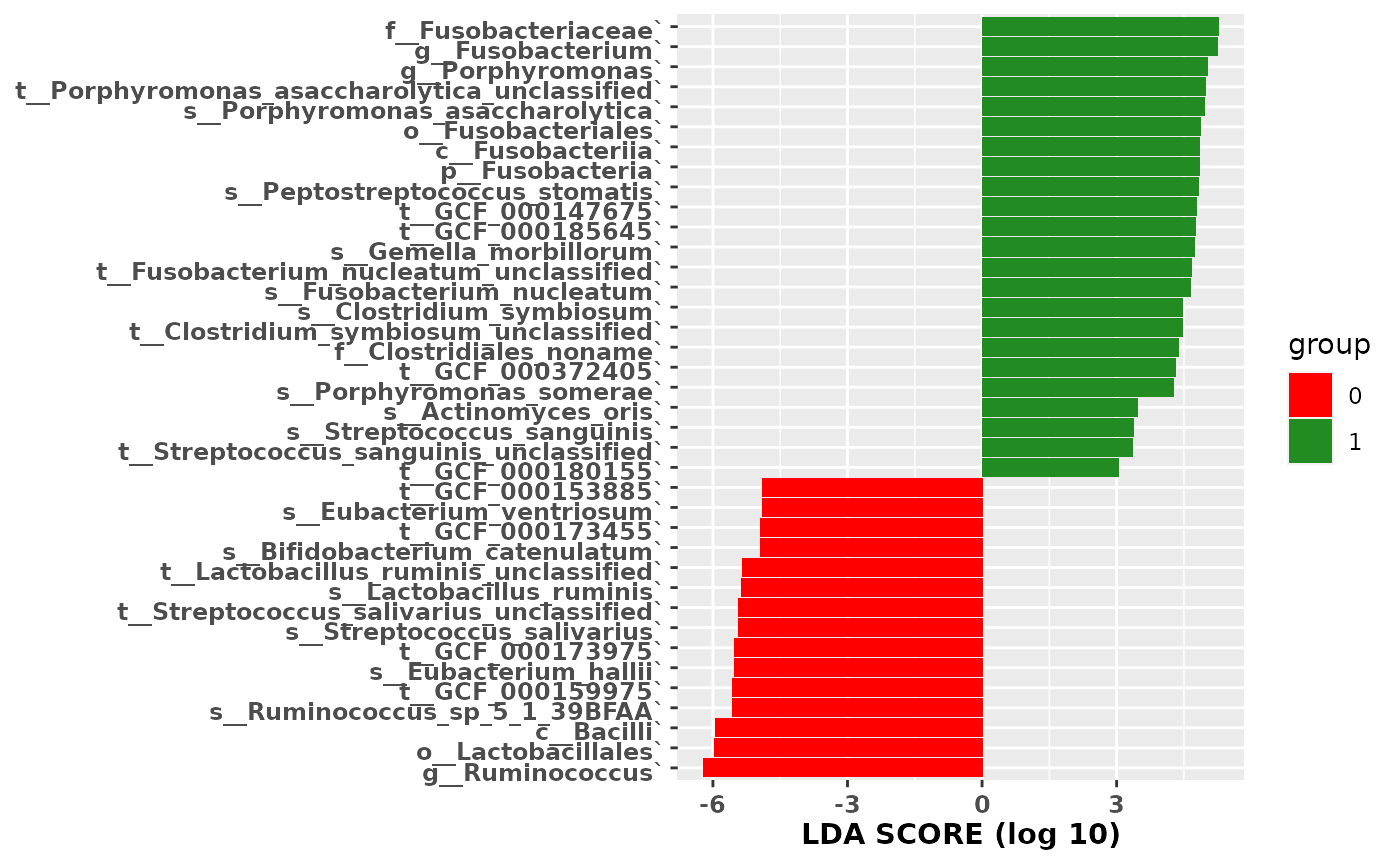
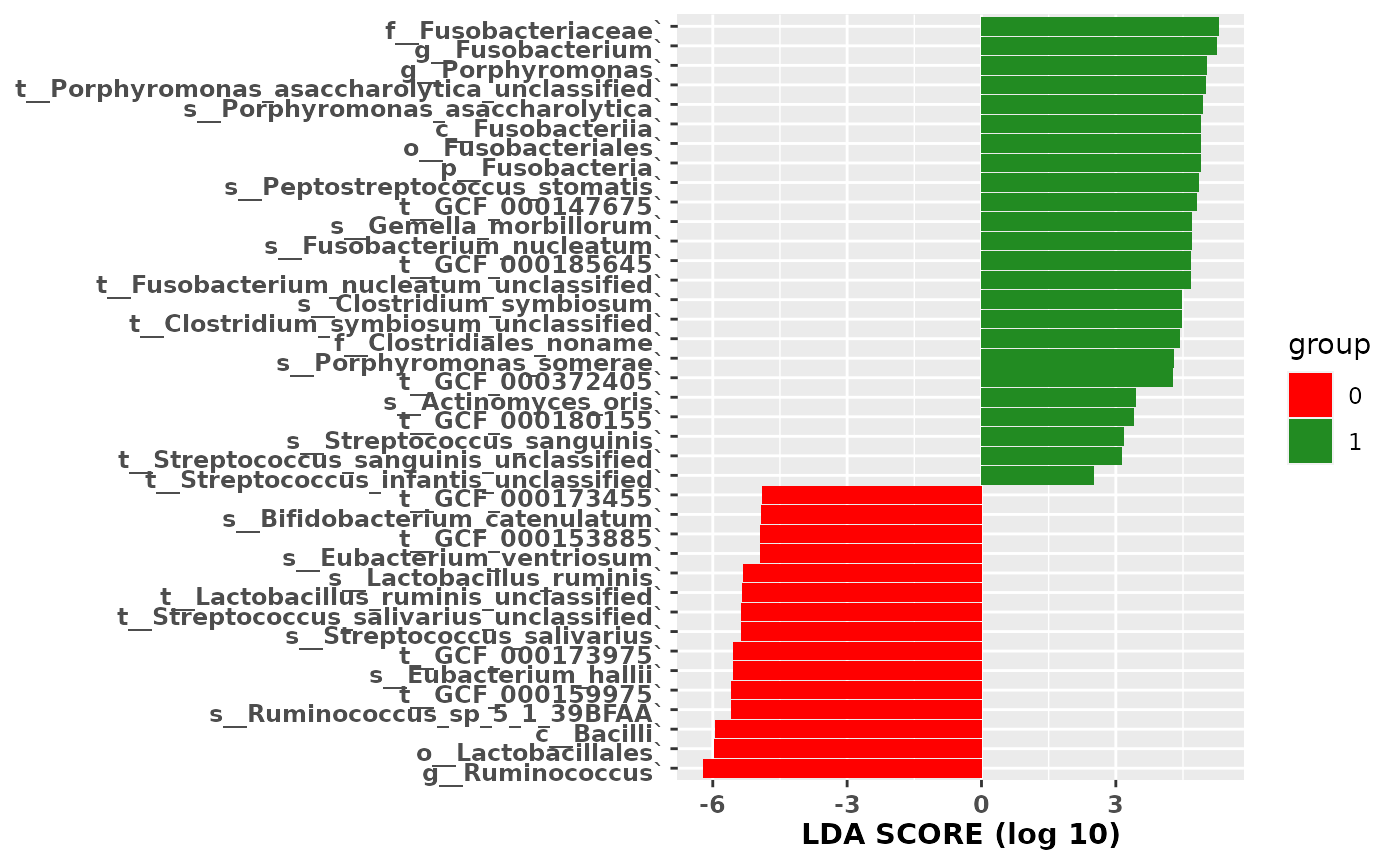
Deploying to gh-pages from  @ 4df78a859b18231f103ed96d76476f8ea290d71c 🚀

diff --git a/articles/lefser.html b/articles/lefser.html
@@ -37,7 +37,7 @@
       </button>
       <span class="navbar-brand">
         <a class="navbar-link" href="../index.html">lefser</a>
-        <span class="version label label-default" data-toggle="tooltip" data-placement="bottom" title="Released version">0.99.11</span>
+        <span class="version label label-default" data-toggle="tooltip" data-placement="bottom" title="Released version">0.99.12</span>
       </span>
     </div>
 
@@ -151,12 +151,12 @@
 ## 5 `k__Bacteria|p__Firmicutes|c__Clostridia|o__Clostridiales|f__Ruminococcaceae|g__Ruminococcus|s__Ruminococcus_sp_5_1_39BFAA|t__GCF_000159975`
 ## 6                            `k__Bacteria|p__Firmicutes|c__Clostridia|o__Clostridiales|f__Eubacteriaceae|g__Eubacterium|s__Eubacterium_hallii`
 ##      scores
-## 1 -6.209961
-## 2 -5.959418
-## 3 -5.946692
-## 4 -5.555393
-## 5 -5.555393
-## 6 -5.510357</code></pre>
+## 1 -6.207223
+## 2 -5.959759
+## 3 -5.948038
+## 4 -5.578802
+## 5 -5.578802
+## 6 -5.547657</code></pre>
 </div>
 <div id="visualizing-results-with-lefserplot" class="section level1">
 <h1 class="hasAnchor">
@@ -190,7 +190,7 @@
 ## [8] methods   base     
 ## 
 ## other attached packages:
-##  [1] lefser_0.99.11              SummarizedExperiment_1.19.9
+##  [1] lefser_0.99.12              SummarizedExperiment_1.19.9
 ##  [3] Biobase_2.49.1              GenomicRanges_1.41.6       
 ##  [5] GenomeInfoDb_1.25.11        IRanges_2.23.10            
 ##  [7] S4Vectors_0.27.13           BiocGenerics_0.35.4        

diff --git a/reference/lefserPlot.html b/reference/lefserPlot.html
@@ -83,7 +83,7 @@ and whether they are more abundant in '0' or '1' sample group." />
       </button>
       <span class="navbar-brand">
         <a class="navbar-link" href="../index.html">lefser</a>
-        <span class="version label label-default" data-toggle="tooltip" data-placement="bottom" title="Released version">0.99.11</span>
+        <span class="version label label-default" data-toggle="tooltip" data-placement="bottom" title="Released version">0.99.12</span>
       </span>
     </div>
 

diff --git a/reference/zeller14.html b/reference/zeller14.html
@@ -84,7 +84,7 @@ directory &quot;data-raw&quot;." />
       </button>
       <span class="navbar-brand">
         <a class="navbar-link" href="../index.html">lefser</a>
-        <span class="version label label-default" data-toggle="tooltip" data-placement="bottom" title="Released version">0.99.11</span>
+        <span class="version label label-default" data-toggle="tooltip" data-placement="bottom" title="Released version">0.99.12</span>
       </span>
     </div>
 

diff --git a/reference/lefser.html b/reference/lefser.html
@@ -86,7 +86,7 @@ are identified as biomarkers." />
       </button>
       <span class="navbar-brand">
         <a class="navbar-link" href="../index.html">lefser</a>
-        <span class="version label label-default" data-toggle="tooltip" data-placement="bottom" title="Released version">0.99.11</span>
+        <span class="version label label-default" data-toggle="tooltip" data-placement="bottom" title="Released version">0.99.12</span>
       </span>
     </div>
 

diff --git a/404.html b/404.html
@@ -81,7 +81,7 @@
       </button>
       <span class="navbar-brand">
         <a class="navbar-link" href="https://waldronlab.io/lefser//index.html">lefser</a>
-        <span class="version label label-default" data-toggle="tooltip" data-placement="bottom" title="Released version">0.99.11</span>
+        <span class="version label label-default" data-toggle="tooltip" data-placement="bottom" title="Released version">0.99.12</span>
       </span>
     </div>
 

diff --git a/articles/index.html b/articles/index.html
@@ -81,7 +81,7 @@
       </button>
       <span class="navbar-brand">
         <a class="navbar-link" href="../index.html">lefser</a>
-        <span class="version label label-default" data-toggle="tooltip" data-placement="bottom" title="Released version">0.99.11</span>
+        <span class="version label label-default" data-toggle="tooltip" data-placement="bottom" title="Released version">0.99.12</span>
       </span>
     </div>
 

diff --git a/news/index.html b/news/index.html
@@ -81,7 +81,7 @@
       </button>
       <span class="navbar-brand">
         <a class="navbar-link" href="../index.html">lefser</a>
-        <span class="version label label-default" data-toggle="tooltip" data-placement="bottom" title="Released version">0.99.11</span>
+        <span class="version label label-default" data-toggle="tooltip" data-placement="bottom" title="Released version">0.99.12</span>
       </span>
     </div>
 

diff --git a/reference/index.html b/reference/index.html
@@ -81,7 +81,7 @@
       </button>
       <span class="navbar-brand">
         <a class="navbar-link" href="../index.html">lefser</a>
-        <span class="version label label-default" data-toggle="tooltip" data-placement="bottom" title="Released version">0.99.11</span>
+        <span class="version label label-default" data-toggle="tooltip" data-placement="bottom" title="Released version">0.99.12</span>
       </span>
     </div>
 

diff --git a/authors.html b/authors.html
@@ -81,7 +81,7 @@
       </button>
       <span class="navbar-brand">
         <a class="navbar-link" href="index.html">lefser</a>
-        <span class="version label label-default" data-toggle="tooltip" data-placement="bottom" title="Released version">0.99.11</span>
+        <span class="version label label-default" data-toggle="tooltip" data-placement="bottom" title="Released version">0.99.12</span>
       </span>
     </div>
 

diff --git a/index.html b/index.html
@@ -40,7 +40,7 @@
       </button>
       <span class="navbar-brand">
         <a class="navbar-link" href="index.html">lefser</a>
-        <span class="version label label-default" data-toggle="tooltip" data-placement="bottom" title="Released version">0.99.11</span>
+        <span class="version label label-default" data-toggle="tooltip" data-placement="bottom" title="Released version">0.99.12</span>
       </span>
     </div>
 
